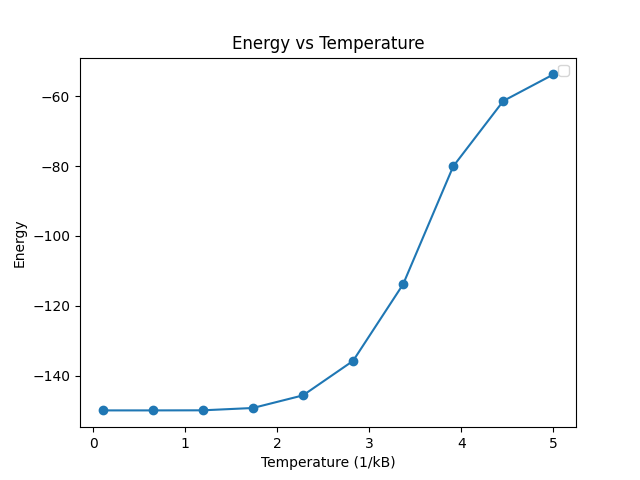
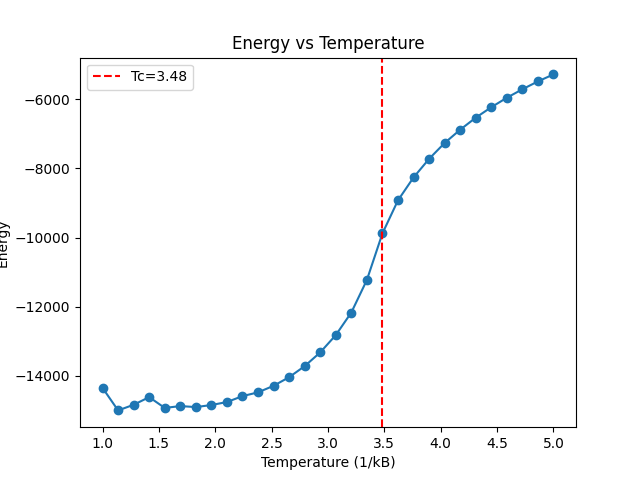
Numba the saviour

diff --git a/HW5/ising.py b/HW5/ising.py
@@ -1,125 +1,162 @@
 import numpy as np
 import matplotlib.pyplot as plt
-import random
-from matplotlib.colors import ListedColormap
 import argparse as argp
+import numba
+from numba import njit
+from scipy.signal import find_peaks
 
 
-def initial_config(N):
-    return np.random.choice([-1, 1], size=(n,n))
-
-def calculate_energy(config, J):
-    energy = 0
-    n = len(config)
+#Using numba to do JIT compilation
+@njit
+def initial_config(n):
+    """Giving lattic either the up and down spin with 50% probability """
+    config = np.empty((n, n))
     for i in range(n):
         for j in range(n):
-            S = config[i, j]
-            nb = config[(i+1)%n, j] + config[i, (j+1)%n] + config[(i-1)%n, j] + config[i, (j-1)%n]
-            energy += -J * nb * S
-    return energy / 4
+            if np.random.random() < 0.5:
+                config[i, j] = 1 
+            else:
+                config[i, j] = -1
+    return config
 
-def calculate_delta_E(config, i, j, J):
-    n = len(config)
-    s = config[i, j]
-    nb = config[(i+1)%n, j] + config[i, (j+1)%n] + config[(i-1)%n, j] + config[i, (j-1)%n]
-    return 2 * J * s * nb
+#Using numba to do JIT compilation
+@numba.jit(nopython=True)
+def calculate_energy_vectorized(config, J):
+    """Calculating the energy fo the system by sweeping through each coordinates"""
+    n = config.shape[0]
+    energy = 0
+    for i in range(n):
+        for j in range(n):
+            # centre coordinate
+            s = config[i, j]
+            # Surrounding coordinates[Periodic Boundary Condition]
+            nb = config[(i+1)%n, j] + config[i, (j+1)%n] + \
+                 config[(i-1)%n, j] + config[i, (j-1)%n]
+            energy += -J * s * nb
+    return energy
 
+
+#Using numba to do JIT compilation
+@numba.jit(nopython=True)
 def calculate_magnetization(config):
-    return np.sum(config)
+    """Calculating the magnetisation of the system adn then returning the absolute value"""
+    return np.abs(np.sum(config))
 
+#Using numba to do JIT compilation
+@numba.jit(nopython=True)
+def metropolis_step_vectorized(config, T, J, kB, n):
+    for itr in range(n**2):
+        # Randomly selecting the coordinates
+        i = np.random.randint(n)
+        j = np.random.randint(n)
+        s = config[i, j]
+        nb = config[(i+1)%n, j] + config[i, (j+1)%n] + \
+             config[(i-1)%n, j] + config[i, (j-1)%n]
+        delta_E = 2 * J * s * nb
+        # Reverting the flip if conditions meet the criteria
+        if delta_E < 0 or np.random.rand() < np.exp(-delta_E / (kB * T)):
+            config[i, j] *= -1
+    return config
 
-def metropolis_step(config, T, J):
-    N = len(config)
-    delta_E_values = []  # To store ΔE values for each step
-    for i in range(N):
-        for j in range(N):
-            delta_E = calculate_delta_E(config, i, j, J)
-            delta_E_values.append(delta_E)
-            if delta_E < 0 or np.random.rand() < np.exp(-delta_E / (kB * T)):
-                config[i, j] *= -1
-    return config, delta_E_values
-
-def simulate(L, T, J, mc_steps, kB):
-    ini_config = initial_config(L)
+# @numba.jit(nopython=True)
+def simulate(n, T, J, mc_steps, kB):
+    ini_config = initial_config(n)
     energies = []
     magnetizations = []
     specific_heats = []
     final_configs = {}
 
     for t in T:
+        print("T -> " ,t)
+        # Making copy of the array toa void changing the original copy
         config = np.copy(ini_config)
-        print(t)
-        E = M = E2 = 0  # E2 for energy squared
-        for _ in range(mc_steps):
-            config, _ = metropolis_step(config, t, J)
-            energy = calculate_energy(config, J)
-            E += energy
-            E2 += energy**2
-            M += calculate_magnetization(config)
+        temp_energies = []  # list to store energies for this temperature
 
-        E_avg = E / mc_steps
-        E2_avg = E2 / mc_steps
-        M_avg = M / mc_steps
+        for sweep_no in range(mc_steps):
+            config = metropolis_step_vectorized(config, t, J, kB, n)
+            energy = calculate_energy_vectorized(config, J)
+            temp_energies.append(energy)
 
+        # Calculate the average energy for this temperature
+        E_avg = np.mean(np.array(temp_energies)) 
+        E2_avg = np.mean(np.array(temp_energies)**2) 
+        delta_E_2 = (E2_avg - E_avg**2) 
+        specific_heat = delta_E_2 / (kB * t**2)
+
+        # Append the average results for this temperature
         energies.append(E_avg)
-        magnetizations.append(M_avg)
-        final_configs[t] = np.copy(config)
-
-        delta_E = np.sqrt(E2_avg - E_avg**2)
-        specific_heat = delta_E**2 / (kB * t**2)
+        M = calculate_magnetization(config) / n**2
+        magnetizations.append(M)
         specific_heats.append(specific_heat)
+        final_configs[t] = np.copy(config)
 
     return energies, magnetizations, specific_heats, final_configs
 
-
+def find_peak_derivative(T, y_values):
+    # Calculate the first derivative of y with respect to T
+    dydT = np.gradient(y_values, T)
+    # Find the index of the maximum value in the first derivative
+    max_dydT_index = np.argmax(np.abs(dydT))
+    # Return the temperature and value of the derivative at this point
+    return T[max_dydT_index], dydT[max_dydT_index]
 
 def plotter_first(T, energies, magnetizations, specific_heats, final_configs, n):
-
+    # Find the temperatures corresponding to the maximum derivative for energy and magnetization
+    peaks, properties = find_peaks(specific_heats)
+    Tc_from_specific_heat = T[peaks][-1]  # Assuming the last peak corresponds to Tc, if are some noise
+    Tc_from_energy, max_dEdT = find_peak_derivative(T, energies)
+    Tc_from_magnetization, max_dMdT = find_peak_derivative(T, magnetizations)
 
     # Energy vs Temperature Plot
     plt.figure()
     plt.plot(T, energies, 'o-')
+    plt.axvline(x=Tc_from_energy, color='r', linestyle='--', label=f'Tc={Tc_from_energy:.2f}')
     plt.title('Energy vs Temperature')
     plt.xlabel('Temperature (1/kB)')
     plt.ylabel('Energy')
     plt.legend()
     plt.savefig("Energy_vs_Temperature.png")
+    plt.close()
 
     # Magnetization vs Temperature Plot
     plt.figure()
     plt.plot(T, magnetizations, 'o-')
+    plt.axvline(x=Tc_from_magnetization, color='r', linestyle='--', label=f'Tc={Tc_from_magnetization:.2f}')
     plt.title('Magnetization vs Temperature')
     plt.xlabel('Temperature (1/kB)')
     plt.ylabel('Magnetization')
     plt.legend()
     plt.savefig("Magnetization_vs_Temperature.png")
+    # plt.show()
+    plt.close()
 
     # Specific Heat vs Temperature Plot
     plt.figure()
     plt.plot(T, specific_heats, 'o-')
+    plt.axvline(x=Tc_from_specific_heat, color='r', linestyle='--', label=f'Tc={Tc_from_specific_heat:.2f}')
     plt.title('Specific Heat vs Temperature')
     plt.xlabel('Temperature')
     plt.ylabel('Specific Heat')
     plt.legend()
     plt.savefig("Specific_Heat_vs_Temperature.png")
+    plt.close()
 
     # Plotting heatmaps of the final configurations for selected temperatures
     for temp, config in final_configs.items():
-        cmap = ListedColormap(['saddlebrown', 'navy'])
         plt.figure(figsize=(6, 6))
-        plt.imshow(config, cmap=cmap, vmin=-1, vmax=1)
+        plt.imshow(config, cmap='jet', vmin=-1, vmax=1)
         plt.title(f'Spin Configuration at T={temp:.2f}')
         plt.colorbar(label='Spin')
         plt.savefig(f"Spin_Configuration_at_T={temp:.2f}.png")
+        plt.close()
 
-    plt.show()
-    
+    # plt.show()
 
 if __name__ == "__main__":
-    mc_steps = 10**3 # Monte Carlo steps per temperature
+    mc_steps = 10**5 # Monte Carlo steps per temperature
     kB = 1   # Boltzmann constant
     J = 1.5 # Interaction strength
-    
+   
     psr = argp.ArgumentParser("isinng")
     psr.add_argument('--part', type=str, default="1,2",
                      help="enter the part , ")  
@@ -128,16 +165,13 @@ if __name__ == "__main__":
     part_list = [int(pt) for pt in part_str]  # list fo all the step widths 
     for part in part_list:
         if part == 1:
-            n = 10  # Lattice size
-            T = np.linspace(0.1, 5, 10) # Temperature range
+            n = 50  # Lattice size
+            T = np.linspace(1, 5, 30) # Temperature range
             energies, magnetizations, specific_heats, final_configs = simulate(n, T, J, mc_steps, kB)
             energies = np.array(energies)
             specific_heats = np.array(specific_heats)
             plotter_first(T,energies,magnetizations, specific_heats, final_configs,n)
       
         elif part == 2:
-            print("Need to add code")
             pass
-            
-    
-    
+        
